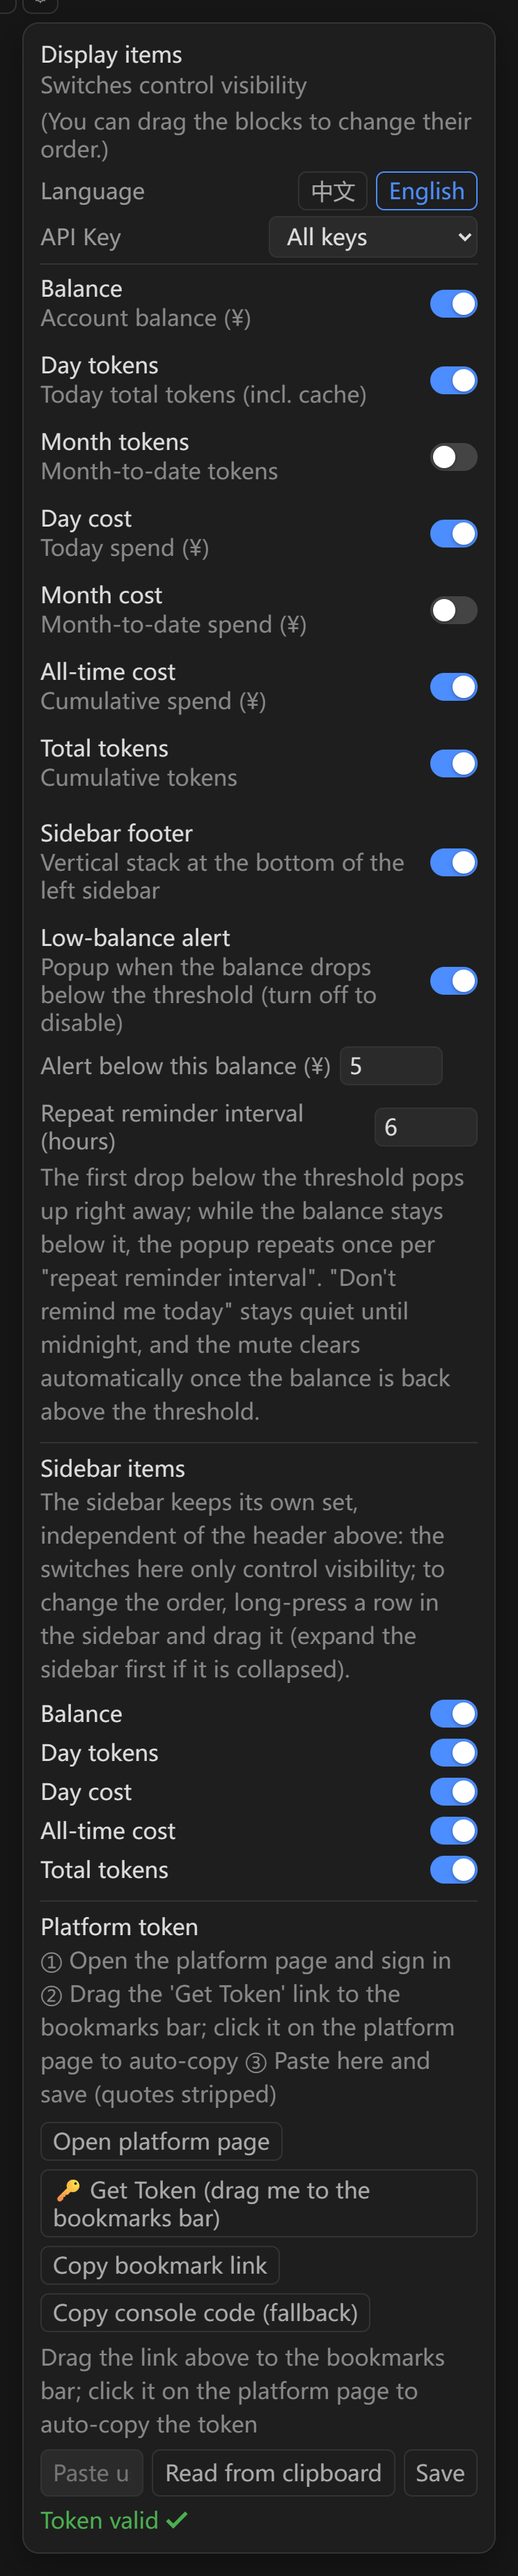
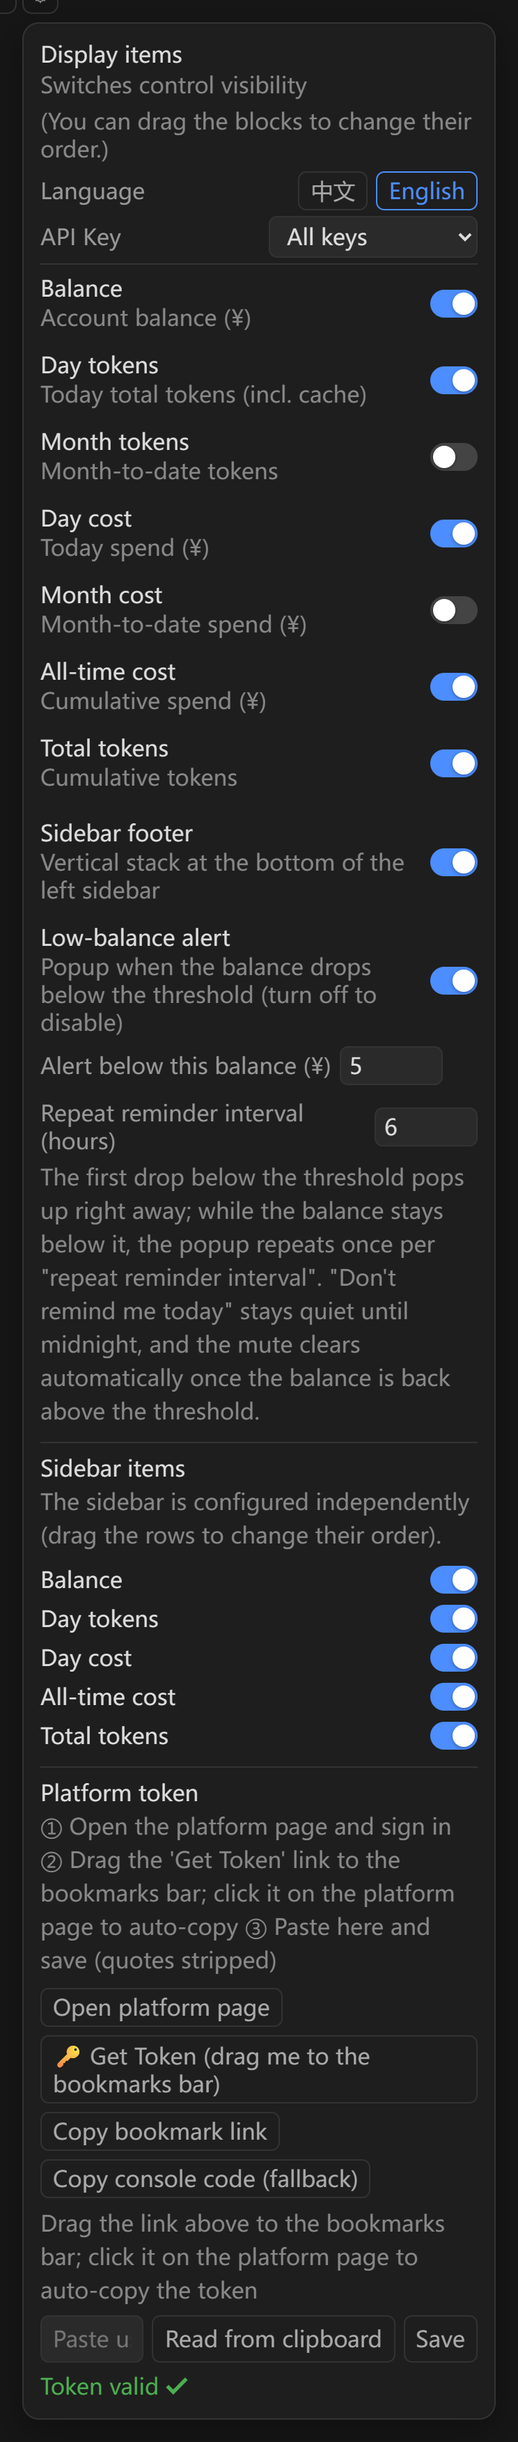
界面：侧边栏提示改为「侧边栏独立配置，（可以通过拖动来调整顺序）」

diff --git a/lib/client.js b/lib/client.js
@@ -71,7 +71,7 @@ window.__ModuleLoader__.load({
 			"cfg.sidebar": "侧边栏底部",
 			"cfg.sidebar.desc": "在左侧边栏底部竖排显示",
 			"cfg.sidebar.items": "侧边栏显示项",
-			"cfg.sidebar.items.hint": "侧边栏用自己的一套，与上面头部的顺序无关：这里的开关只控制显示；顺序直接在侧边栏里长按某一项拖动调整（侧边栏收起成窄条时先展开）。",
+			"cfg.sidebar.items.hint": "侧边栏独立配置，（可以通过拖动来调整顺序）",
 			"token.section": "平台 Token",
 			"token.howto": "① 打开平台页登录 ② 把「获取 Token」链接拖到浏览器书签栏，之后在平台页点一下书签即自动复制 ③ 回来粘贴保存（自动去引号）",
 			"token.open": "打开平台页面",
@@ -161,7 +161,7 @@ window.__ModuleLoader__.load({
 			"cfg.sidebar": "Sidebar footer",
 			"cfg.sidebar.desc": "Vertical stack at the bottom of the left sidebar",
 			"cfg.sidebar.items": "Sidebar items",
-			"cfg.sidebar.items.hint": "The sidebar keeps its own set, independent of the header above: the switches here only control visibility; to change the order, long-press a row in the sidebar and drag it (expand the sidebar first if it is collapsed).",
+			"cfg.sidebar.items.hint": "The sidebar is configured independently (drag the rows to change their order).",
 			"token.section": "Platform token",
 			"token.howto": "① Open the platform page and sign in ② Drag the 'Get Token' link to the bookmarks bar; click it on the platform page to auto-copy ③ Paste here and save (quotes stripped)",
 			"token.open": "Open platform page",
